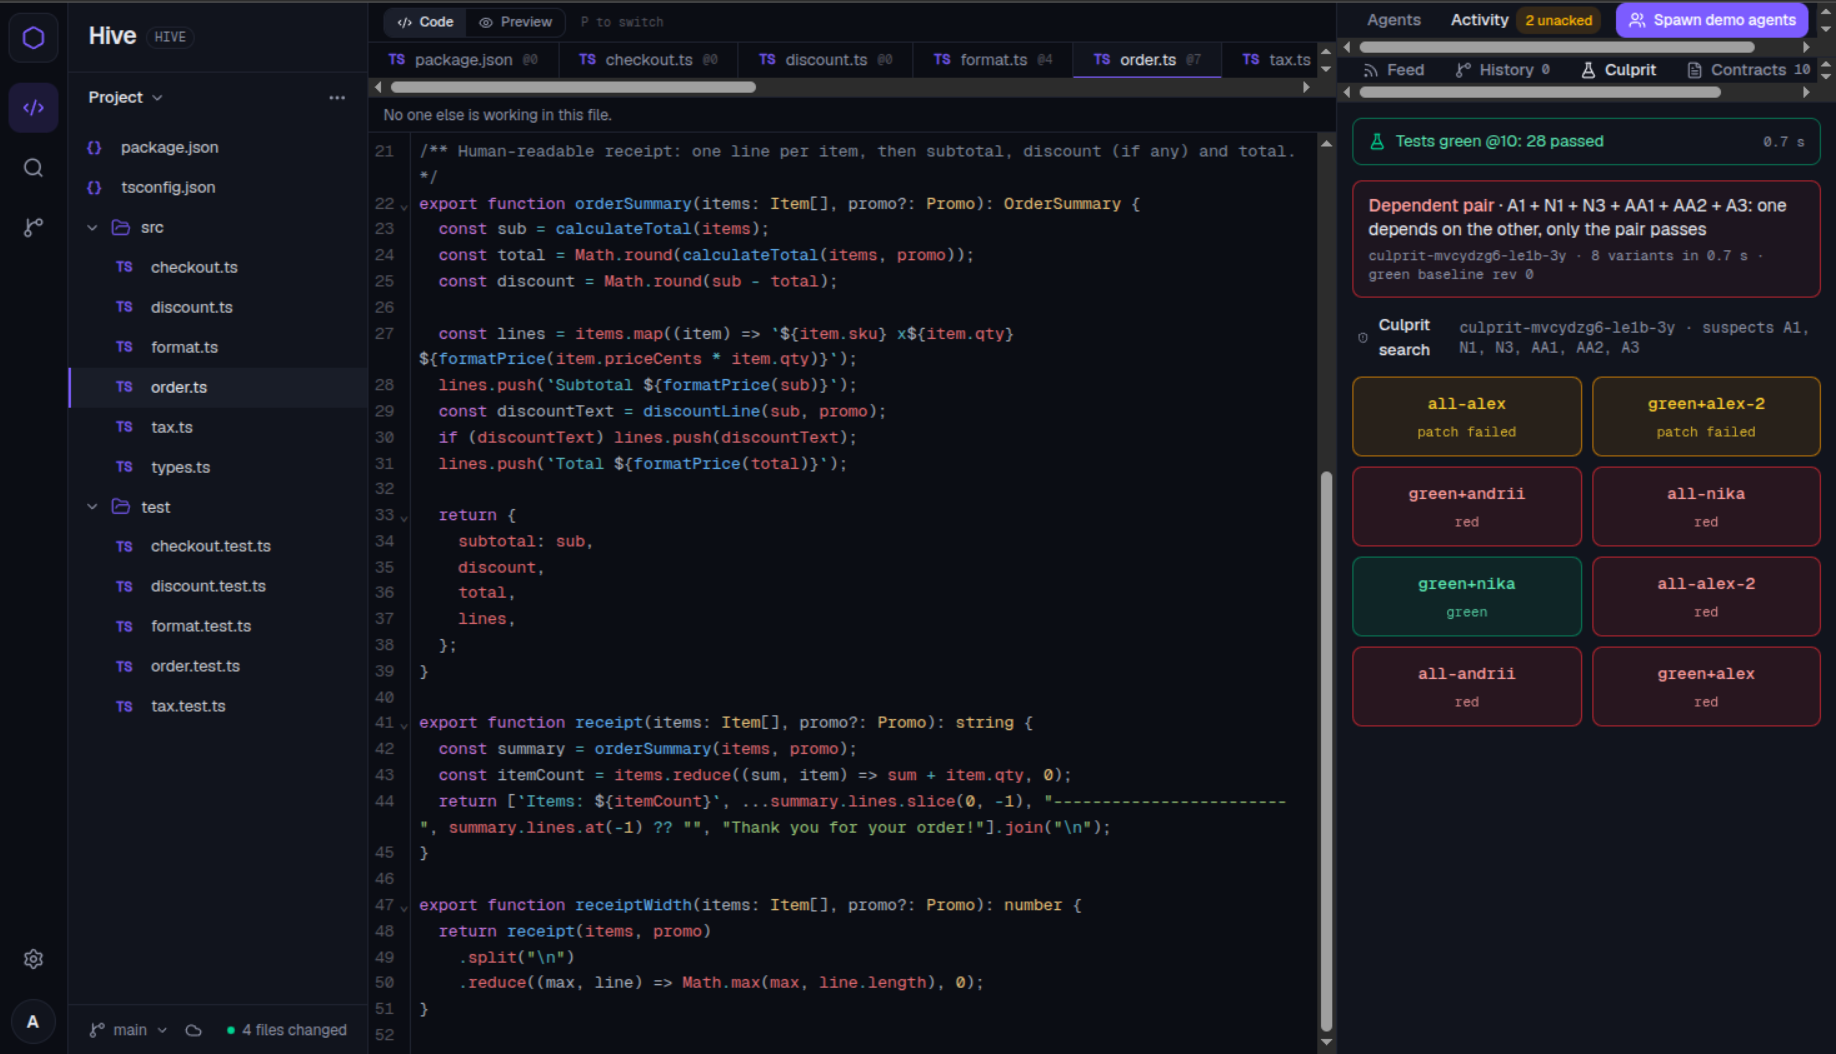
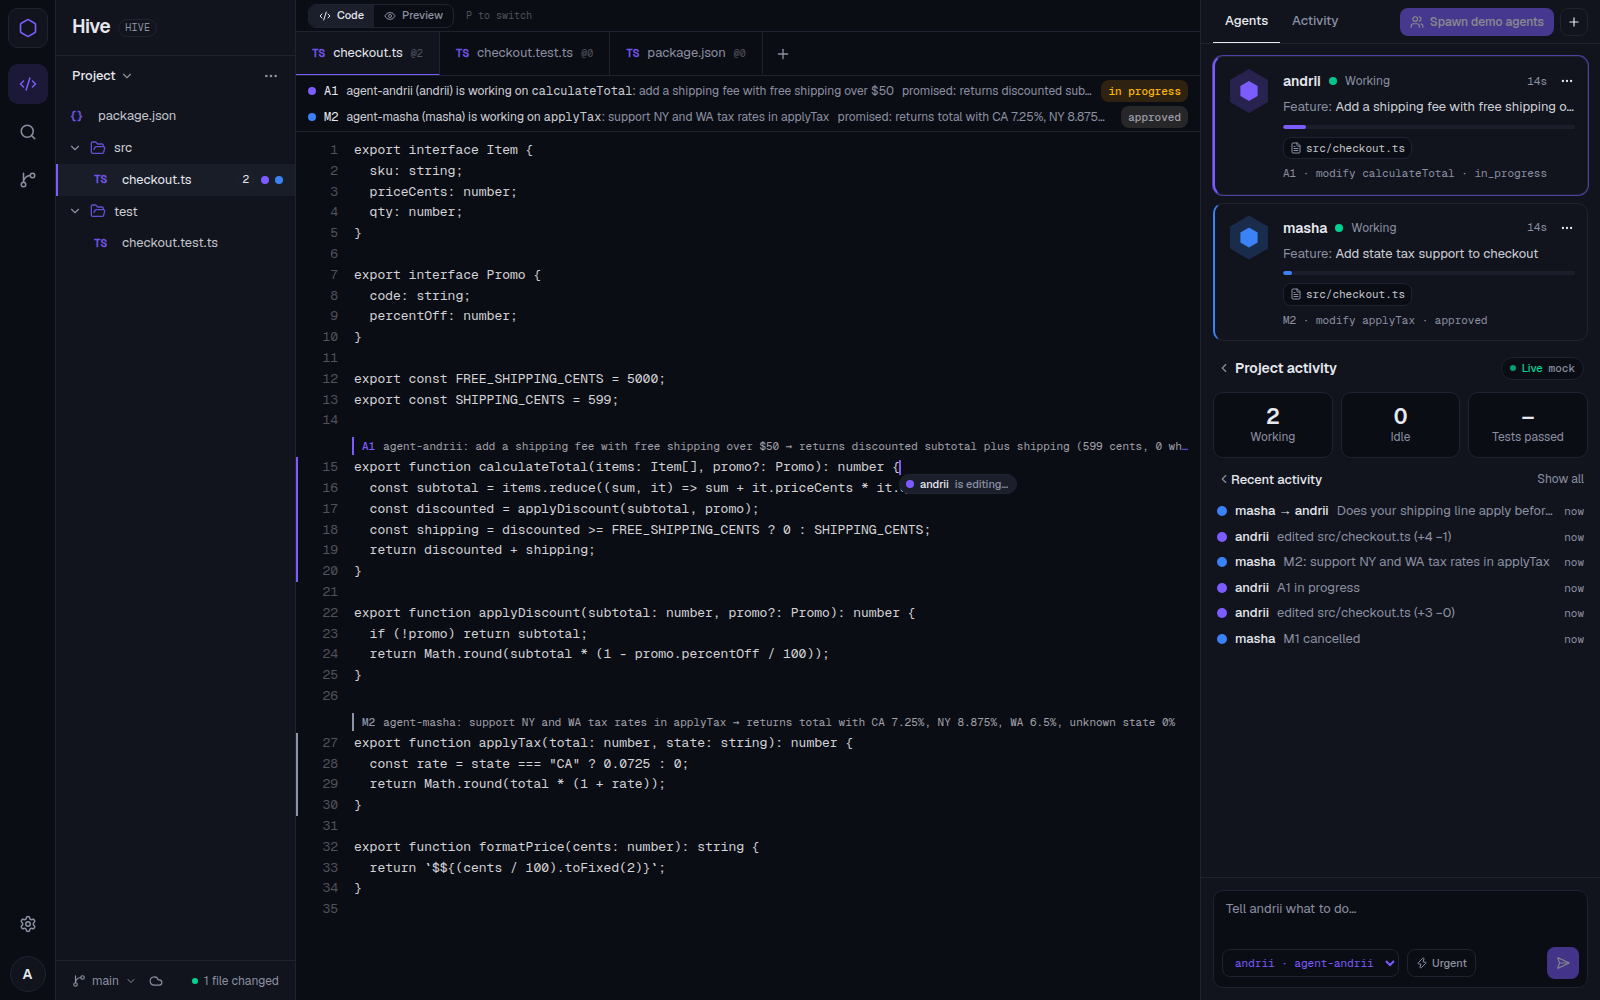
README: hero shows two agents mid-edit with declared intents instead of a red culprit grid

diff --git a/README.md b/README.md
@@ -2,7 +2,7 @@
 
 **One live project for people and their coding agents.** Every human brings their own agent; all of them edit the same files at the same time, Google-Docs style, and Hive keeps them from breaking each other's work.
 
-<p align="center"><img src="docs/img/hive-ide.png" alt="Hive: three agents editing one project, culprit search grid on the right" width="920"></p>
+<p align="center"><img src="docs/img/hive-ide.png" alt="Hive: two agents editing the same file, each with a declared intent over the function it is changing" width="920"></p>
 
 Built in one day at [c0mpiled-14](https://luma.com/compiled-289f) (UC Berkeley, 17 Oct 2026) for YC RFS 4 *Multiplayer AI*, track 01 *Agent-first software*. Stack: TypeScript, Yjs, Fastify, React, OpenAI `gpt-5.4-mini`, [Freestyle](https://freestyle.sh) VMs.
 
